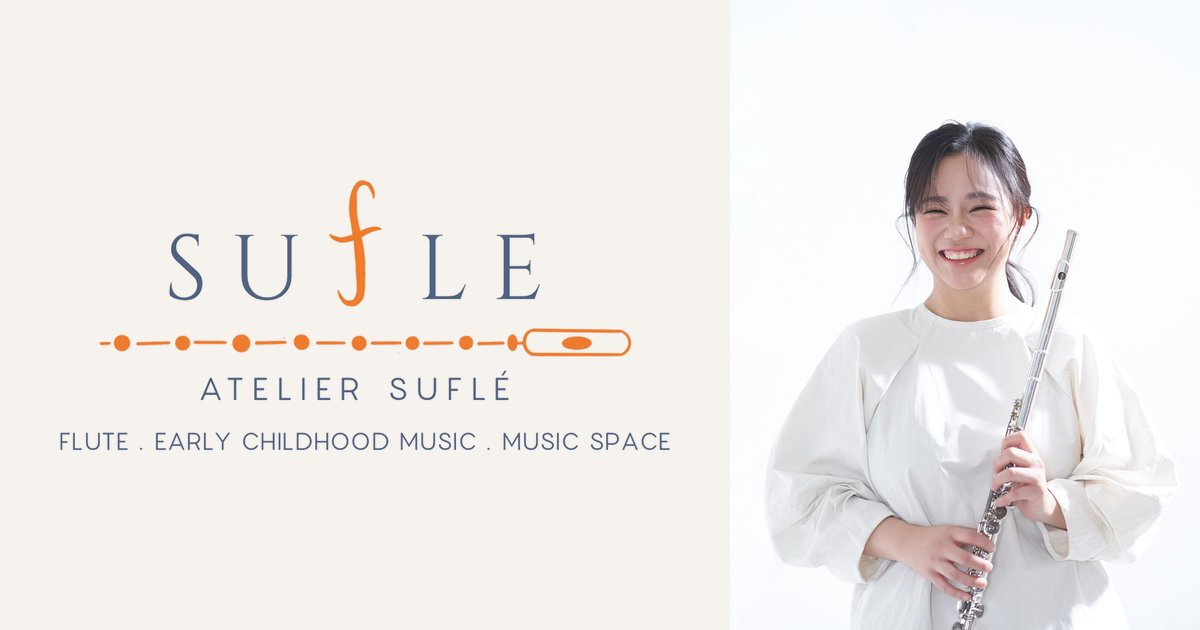
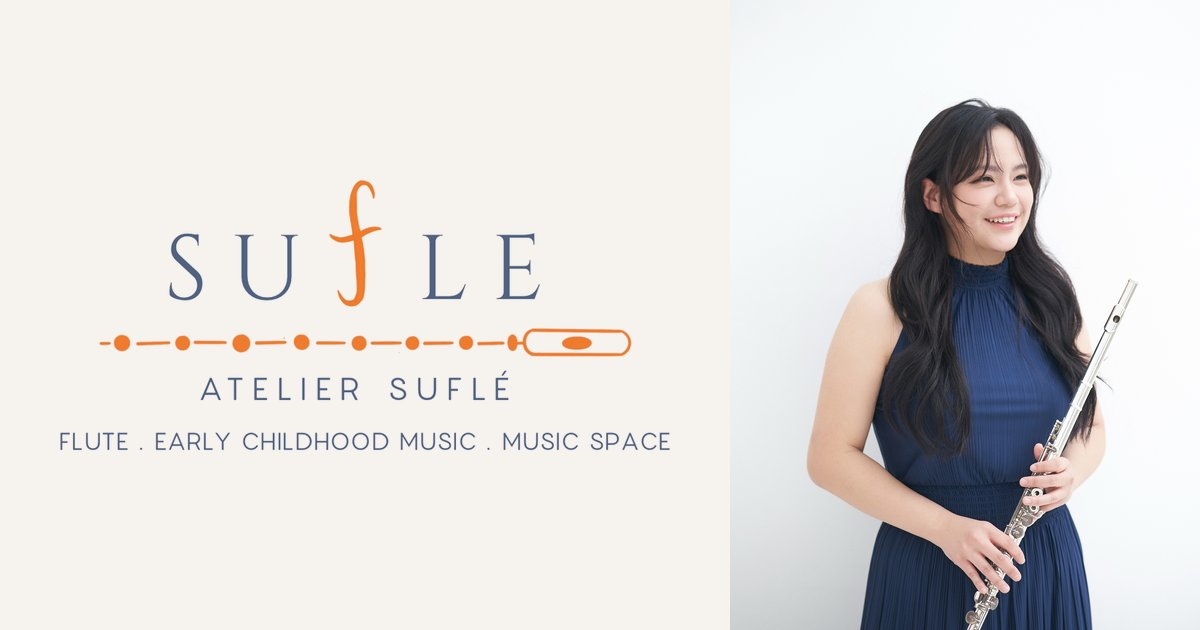
Use the new blue-dress portrait in the hero
The white portrait moves to About, the graduation photo joins the concert
photo in the Music gallery; new social preview image; the staff card
overlaps less of the hero photo.

Claude-Session: https://claude.ai/code/session_01DsEhUf33tBodbzAHMFEgwg

Changed region(s): [[0.5858, 0.1508, 0.9867, 1.0]]

diff --git a/atelier-sufle/de/index.html b/atelier-sufle/de/index.html
@@ -26,7 +26,7 @@
 <meta name="twitter:card" content="summary_large_image">
 <link rel="preload" href="../assets/fonts/cormorant-garamond-normal-latin.woff2" as="font" type="font/woff2" crossorigin>
 <link rel="preload" href="../assets/fonts/jost-normal-latin.woff2" as="font" type="font/woff2" crossorigin>
-<link rel="preload" href="../assets/photos/portrait-800.webp" as="image" type="image/webp" imagesrcset="../assets/photos/portrait-480.webp 480w, ../assets/photos/portrait-800.webp 800w" imagesizes="(max-width: 900px) 80vw, 460px">
+<link rel="preload" href="../assets/photos/hero-800.webp" as="image" type="image/webp" imagesrcset="../assets/photos/hero-480.webp 480w, ../assets/photos/hero-800.webp 800w" imagesizes="(max-width: 900px) 80vw, 460px">
 <link rel="stylesheet" href="../assets/fonts/fonts.css">
 <link rel="stylesheet" href="../assets/css/site.css">
 <script type="application/ld+json">{"@context": "https://schema.org", "@graph": [{"@type": "MusicSchool", "@id": "https://reissfuji006.github.io/atelier-sufle/#school", "name": "Atelier Suflé", "description": "Einzelunterricht Querflöte für Kinder, Jugendliche und Erwachsene in Bonn, Köln und online bei Flötistin Suhsuan Wang (Master of Music, HfMT Köln). Auf Deutsch, Englisch oder Chinesisch.", "url": "https://reissfuji006.github.io/atelier-sufle/de/", "image": "https://reissfuji006.github.io/atelier-sufle/assets/og-image.jpg", "logo": "https://reissfuji006.github.io/atelier-sufle/assets/brand/logo-mark.png", "email": "hsuan41213@gmail.com", "areaServed": [{"@type": "City", "name": "Bonn"}, {"@type": "City", "name": "Köln"}], "availableLanguage": ["en", "de", "zh"], "sameAs": ["https://www.instagram.com/ateliersufle.music/"], "founder": {"@id": "https://reissfuji006.github.io/atelier-sufle/#suhsuan"}}, {"@type": "Person", "@id": "https://reissfuji006.github.io/atelier-sufle/#suhsuan", "name": "Suhsuan Wang", "jobTitle": "Flautist and flute teacher", "knowsLanguage": ["en", "de", "zh"], "alumniOf": {"@type": "CollegeOrUniversity", "name": "Hochschule für Musik und Tanz Köln"}, "sameAs": ["https://www.instagram.com/ateliersufle.music/"]}, {"@type": "FAQPage", "inLanguage": "de", "mainEntity": [{"@type": "Question", "name": "Für wen ist der Unterricht?", "acceptedAnswer": {"@type": "Answer", "text": "Für Kinder, Jugendliche und Erwachsene, von Anfängern bis zu Fortgeschrittenen. Kleine Kinder können mit einer Flöte mit gebogenem Kopfstück beginnen, die leichter zu halten ist."}}, {"@type": "Question", "name": "Wo findet der Unterricht statt?", "acceptedAnswer": {"@type": "Answer", "text": "Vor Ort in Bonn und Köln oder online per Video."}}, {"@type": "Question", "name": "In welchen Sprachen wird unterrichtet?", "acceptedAnswer": {"@type": "Answer", "text": "Auf Deutsch, Englisch oder Chinesisch (Mandarin)."}}, {"@type": "Question", "name": "Wie lange dauert eine Stunde?", "acceptedAnswer": {"@type": "Answer", "text": "30, 45 oder 60 Minuten, je nach Alter, Niveau und Zielen."}}, {"@type": "Question", "name": "Was kostet der Unterricht?", "acceptedAnswer": {"@type": "Answer", "text": "Die Preise gibt es auf Anfrage. Schreiben Sie einfach über das Formular unten."}}, {"@type": "Question", "name": "Welche Ausbildung hat Suhsuan?", "acceptedAnswer": {"@type": "Answer", "text": "Sie hat einen Master of Music in Flöte, Kammermusik und Barockmusik sowie einen Bachelor of Music in Flöte, beide von der Hochschule für Musik und Tanz Köln."}}, {"@type": "Question", "name": "Wie melde ich mich für eine erste Stunde an?", "acceptedAnswer": {"@type": "Answer", "text": "Über das Formular unten oder per E-Mail an hsuan41213@gmail.com. Suhsuan antwortet per E-Mail, um eine erste Stunde zu vereinbaren."}}]}]}</script>
@@ -69,8 +69,8 @@
       </div>
       <div class="hero-visual">
         <picture>
-          <source type="image/webp" srcset="../assets/photos/portrait-480.webp 480w, ../assets/photos/portrait-800.webp 800w" sizes="(max-width: 900px) 80vw, 460px">
-          <img class="portrait" src="../assets/photos/portrait-800.jpg" srcset="../assets/photos/portrait-480.jpg 480w, ../assets/photos/portrait-800.jpg 800w" sizes="(max-width: 900px) 80vw, 460px" alt="Suhsuan Wang lächelt und hält ihre Flöte" width="800" height="1200" fetchpriority="high">
+          <source type="image/webp" srcset="../assets/photos/hero-480.webp 480w, ../assets/photos/hero-800.webp 800w" sizes="(max-width: 900px) 80vw, 460px">
+          <img class="portrait" src="../assets/photos/hero-800.jpg" srcset="../assets/photos/hero-480.jpg 480w, ../assets/photos/hero-800.jpg 800w" sizes="(max-width: 900px) 80vw, 460px" alt="Suhsuan Wang im blauen Kleid mit ihrer Flöte" width="800" height="1200" fetchpriority="high">
         </picture>
         <div class="staff-card" id="staff-card">
           <div class="staff-head">
@@ -98,10 +98,9 @@
     <div class="wrap about-grid">
       <figure class="about-photo">
         <picture>
-          <source type="image/webp" srcset="../assets/photos/graduation-600.webp 600w, ../assets/photos/graduation-1000.webp 1000w" sizes="(max-width: 900px) 92vw, 520px">
-          <img src="../assets/photos/graduation-600.jpg" srcset="../assets/photos/graduation-600.jpg 600w, ../assets/photos/graduation-1000.jpg 1000w" sizes="(max-width: 900px) 92vw, 520px" alt="Suhsuan Wang mit Blumen vor der Hochschule für Musik und Tanz Köln" width="1000" height="754" loading="lazy" decoding="async">
+          <source type="image/webp" srcset="../assets/photos/portrait-480.webp 480w, ../assets/photos/portrait-800.webp 800w" sizes="(max-width: 900px) 80vw, 440px">
+          <img src="../assets/photos/portrait-800.jpg" srcset="../assets/photos/portrait-480.jpg 480w, ../assets/photos/portrait-800.jpg 800w" sizes="(max-width: 900px) 80vw, 440px" alt="Suhsuan Wang lacht und hält ihre Flöte" width="800" height="1200" loading="lazy" decoding="async">
         </picture>
-        <figcaption>Abschluss an der Hochschule für Musik und Tanz Köln</figcaption>
       </figure>
       <div class="about-text">
         <p class="label">Über mich</p>
@@ -162,7 +161,7 @@
 
   <section class="block music" id="music" aria-labelledby="music-title">
     <div class="wrap music-grid">
-      <div class="music-photos"><figure><picture><source type="image/webp" srcset="../assets/photos/concert-800.webp"><img src="../assets/photos/concert-800.jpg" alt="Suhsuan Wang spielt Flöte bei einem Kammermusikkonzert" width="800" height="534" loading="lazy" decoding="async"></picture><figcaption>Kammermusikkonzert</figcaption></figure></div>
+      <div class="music-photos"><figure><picture><source type="image/webp" srcset="../assets/photos/concert-800.webp"><img src="../assets/photos/concert-800.jpg" alt="Suhsuan Wang spielt Flöte bei einem Kammermusikkonzert" width="800" height="534" loading="lazy" decoding="async"></picture><figcaption>Kammermusikkonzert</figcaption></figure><figure><picture><source type="image/webp" srcset="../assets/photos/graduation-600.webp"><img src="../assets/photos/graduation-600.jpg" alt="Suhsuan Wang mit Blumen vor der Hochschule für Musik und Tanz Köln" width="600" height="452" loading="lazy" decoding="async"></picture><figcaption>Abschluss an der Hochschule für Musik und Tanz Köln</figcaption></figure></div>
       <div class="music-text">
         <p class="label">Musik</p>
         <h2 id="music-title">Auf der Bühne</h2>

diff --git a/atelier-sufle/index.html b/atelier-sufle/index.html
@@ -26,7 +26,7 @@
 <meta name="twitter:card" content="summary_large_image">
 <link rel="preload" href="assets/fonts/cormorant-garamond-normal-latin.woff2" as="font" type="font/woff2" crossorigin>
 <link rel="preload" href="assets/fonts/jost-normal-latin.woff2" as="font" type="font/woff2" crossorigin>
-<link rel="preload" href="assets/photos/portrait-800.webp" as="image" type="image/webp" imagesrcset="assets/photos/portrait-480.webp 480w, assets/photos/portrait-800.webp 800w" imagesizes="(max-width: 900px) 80vw, 460px">
+<link rel="preload" href="assets/photos/hero-800.webp" as="image" type="image/webp" imagesrcset="assets/photos/hero-480.webp 480w, assets/photos/hero-800.webp 800w" imagesizes="(max-width: 900px) 80vw, 460px">
 <link rel="stylesheet" href="assets/fonts/fonts.css">
 <link rel="stylesheet" href="assets/css/site.css">
 <script type="application/ld+json">{"@context": "https://schema.org", "@graph": [{"@type": "MusicSchool", "@id": "https://reissfuji006.github.io/atelier-sufle/#school", "name": "Atelier Suflé", "description": "One-to-one flute lessons for children, teens and adults in Bonn, Köln and online with flautist Suhsuan Wang (Master of Music, HfMT Köln). In English, German or Chinese.", "url": "https://reissfuji006.github.io/atelier-sufle/", "image": "https://reissfuji006.github.io/atelier-sufle/assets/og-image.jpg", "logo": "https://reissfuji006.github.io/atelier-sufle/assets/brand/logo-mark.png", "email": "hsuan41213@gmail.com", "areaServed": [{"@type": "City", "name": "Bonn"}, {"@type": "City", "name": "Köln"}], "availableLanguage": ["en", "de", "zh"], "sameAs": ["https://www.instagram.com/ateliersufle.music/"], "founder": {"@id": "https://reissfuji006.github.io/atelier-sufle/#suhsuan"}}, {"@type": "Person", "@id": "https://reissfuji006.github.io/atelier-sufle/#suhsuan", "name": "Suhsuan Wang", "jobTitle": "Flautist and flute teacher", "knowsLanguage": ["en", "de", "zh"], "alumniOf": {"@type": "CollegeOrUniversity", "name": "Hochschule für Musik und Tanz Köln"}, "sameAs": ["https://www.instagram.com/ateliersufle.music/"]}, {"@type": "FAQPage", "inLanguage": "en", "mainEntity": [{"@type": "Question", "name": "Who are the lessons for?", "acceptedAnswer": {"@type": "Answer", "text": "Children, teenagers and adults, from complete beginners to advanced flautists. Young children can start on a flute with a curved headjoint, which is easier to hold."}}, {"@type": "Question", "name": "Where do lessons take place?", "acceptedAnswer": {"@type": "Answer", "text": "In person in Bonn and Köln, or online by video."}}, {"@type": "Question", "name": "In which languages are lessons given?", "acceptedAnswer": {"@type": "Answer", "text": "English, German or Chinese (Mandarin)."}}, {"@type": "Question", "name": "How long is a lesson?", "acceptedAnswer": {"@type": "Answer", "text": "30, 45 or 60 minutes, depending on age, level and goals."}}, {"@type": "Question", "name": "How much do lessons cost?", "acceptedAnswer": {"@type": "Answer", "text": "Prices are shared on request. Send a short message through the form below."}}, {"@type": "Question", "name": "What is Suhsuan’s background?", "acceptedAnswer": {"@type": "Answer", "text": "She holds a Master of Music in flute performance, chamber music and baroque music, and a Bachelor of Music in flute performance, both from the Hochschule für Musik und Tanz Köln."}}, {"@type": "Question", "name": "How do I book a first lesson?", "acceptedAnswer": {"@type": "Answer", "text": "Use the form below or write to hsuan41213@gmail.com. Suhsuan replies by email to arrange a first lesson."}}]}]}</script>
@@ -69,8 +69,8 @@
       </div>
       <div class="hero-visual">
         <picture>
-          <source type="image/webp" srcset="assets/photos/portrait-480.webp 480w, assets/photos/portrait-800.webp 800w" sizes="(max-width: 900px) 80vw, 460px">
-          <img class="portrait" src="assets/photos/portrait-800.jpg" srcset="assets/photos/portrait-480.jpg 480w, assets/photos/portrait-800.jpg 800w" sizes="(max-width: 900px) 80vw, 460px" alt="Suhsuan Wang smiling, holding her flute" width="800" height="1200" fetchpriority="high">
+          <source type="image/webp" srcset="assets/photos/hero-480.webp 480w, assets/photos/hero-800.webp 800w" sizes="(max-width: 900px) 80vw, 460px">
+          <img class="portrait" src="assets/photos/hero-800.jpg" srcset="assets/photos/hero-480.jpg 480w, assets/photos/hero-800.jpg 800w" sizes="(max-width: 900px) 80vw, 460px" alt="Suhsuan Wang in a blue dress, holding her flute" width="800" height="1200" fetchpriority="high">
         </picture>
         <div class="staff-card" id="staff-card">
           <div class="staff-head">
@@ -98,10 +98,9 @@
     <div class="wrap about-grid">
       <figure class="about-photo">
         <picture>
-          <source type="image/webp" srcset="assets/photos/graduation-600.webp 600w, assets/photos/graduation-1000.webp 1000w" sizes="(max-width: 900px) 92vw, 520px">
-          <img src="assets/photos/graduation-600.jpg" srcset="assets/photos/graduation-600.jpg 600w, assets/photos/graduation-1000.jpg 1000w" sizes="(max-width: 900px) 92vw, 520px" alt="Suhsuan Wang holding flowers in front of the Hochschule für Musik und Tanz Köln" width="1000" height="754" loading="lazy" decoding="async">
+          <source type="image/webp" srcset="assets/photos/portrait-480.webp 480w, assets/photos/portrait-800.webp 800w" sizes="(max-width: 900px) 80vw, 440px">
+          <img src="assets/photos/portrait-800.jpg" srcset="assets/photos/portrait-480.jpg 480w, assets/photos/portrait-800.jpg 800w" sizes="(max-width: 900px) 80vw, 440px" alt="Suhsuan Wang laughing, holding her flute" width="800" height="1200" loading="lazy" decoding="async">
         </picture>
-        <figcaption>Graduation, Hochschule für Musik und Tanz Köln</figcaption>
       </figure>
       <div class="about-text">
         <p class="label">About</p>
@@ -162,7 +161,7 @@
 
   <section class="block music" id="music" aria-labelledby="music-title">
     <div class="wrap music-grid">
-      <div class="music-photos"><figure><picture><source type="image/webp" srcset="assets/photos/concert-800.webp"><img src="assets/photos/concert-800.jpg" alt="Suhsuan Wang playing the flute in a chamber music concert" width="800" height="534" loading="lazy" decoding="async"></picture><figcaption>Chamber music concert</figcaption></figure></div>
+      <div class="music-photos"><figure><picture><source type="image/webp" srcset="assets/photos/concert-800.webp"><img src="assets/photos/concert-800.jpg" alt="Suhsuan Wang playing the flute in a chamber music concert" width="800" height="534" loading="lazy" decoding="async"></picture><figcaption>Chamber music concert</figcaption></figure><figure><picture><source type="image/webp" srcset="assets/photos/graduation-600.webp"><img src="assets/photos/graduation-600.jpg" alt="Suhsuan Wang holding flowers in front of the Hochschule für Musik und Tanz Köln" width="600" height="452" loading="lazy" decoding="async"></picture><figcaption>Graduation, Hochschule für Musik und Tanz Köln</figcaption></figure></div>
       <div class="music-text">
         <p class="label">Music</p>
         <h2 id="music-title">On stage</h2>

diff --git a/atelier-sufle/zh-hans/index.html b/atelier-sufle/zh-hans/index.html
@@ -26,7 +26,7 @@
 <meta name="twitter:card" content="summary_large_image">
 <link rel="preload" href="../assets/fonts/cormorant-garamond-normal-latin.woff2" as="font" type="font/woff2" crossorigin>
 <link rel="preload" href="../assets/fonts/jost-normal-latin.woff2" as="font" type="font/woff2" crossorigin>
-<link rel="preload" href="../assets/photos/portrait-800.webp" as="image" type="image/webp" imagesrcset="../assets/photos/portrait-480.webp 480w, ../assets/photos/portrait-800.webp 800w" imagesizes="(max-width: 900px) 80vw, 460px">
+<link rel="preload" href="../assets/photos/hero-800.webp" as="image" type="image/webp" imagesrcset="../assets/photos/hero-480.webp 480w, ../assets/photos/hero-800.webp 800w" imagesizes="(max-width: 900px) 80vw, 460px">
 <link rel="stylesheet" href="../assets/fonts/fonts.css">
 <link rel="stylesheet" href="../assets/css/site.css">
 <script type="application/ld+json">{"@context": "https://schema.org", "@graph": [{"@type": "MusicSchool", "@id": "https://reissfuji006.github.io/atelier-sufle/#school", "name": "Atelier Suflé", "description": "长笛演奏家 Suhsuan Wang（科隆音乐舞蹈学院音乐硕士）在波恩、科隆及在线，为儿童、青少年与成人提供一对一长笛课程，可用中文、英文或德文授课。", "url": "https://reissfuji006.github.io/atelier-sufle/zh-hans/", "image": "https://reissfuji006.github.io/atelier-sufle/assets/og-image.jpg", "logo": "https://reissfuji006.github.io/atelier-sufle/assets/brand/logo-mark.png", "email": "hsuan41213@gmail.com", "areaServed": [{"@type": "City", "name": "Bonn"}, {"@type": "City", "name": "Köln"}], "availableLanguage": ["en", "de", "zh"], "sameAs": ["https://www.instagram.com/ateliersufle.music/"], "founder": {"@id": "https://reissfuji006.github.io/atelier-sufle/#suhsuan"}}, {"@type": "Person", "@id": "https://reissfuji006.github.io/atelier-sufle/#suhsuan", "name": "Suhsuan Wang", "jobTitle": "Flautist and flute teacher", "knowsLanguage": ["en", "de", "zh"], "alumniOf": {"@type": "CollegeOrUniversity", "name": "Hochschule für Musik und Tanz Köln"}, "sameAs": ["https://www.instagram.com/ateliersufle.music/"]}, {"@type": "FAQPage", "inLanguage": "zh-Hans", "mainEntity": [{"@type": "Question", "name": "课程适合哪些人？", "acceptedAnswer": {"@type": "Answer", "text": "儿童、青少年与成人，从零基础到进阶都适合。年纪小的孩子可以使用较好握持的弯头长笛开始学习。"}}, {"@type": "Question", "name": "在哪里上课？", "acceptedAnswer": {"@type": "Answer", "text": "在波恩与科隆面授，或透过视频在线上课。"}}, {"@type": "Question", "name": "使用哪些语言授课？", "acceptedAnswer": {"@type": "Answer", "text": "中文（普通话）、英文或德文。"}}, {"@type": "Question", "name": "一堂课多长？", "acceptedAnswer": {"@type": "Answer", "text": "30、45 或 60 分钟，依年龄、程度与目标而定。"}}, {"@type": "Question", "name": "学费是多少？", "acceptedAnswer": {"@type": "Answer", "text": "费用请洽询，欢迎透过下方表单留言。"}}, {"@type": "Question", "name": "Suhsuan 的学经历？", "acceptedAnswer": {"@type": "Answer", "text": "她拥有德国科隆音乐舞蹈学院的长笛演奏、室内乐与巴洛克音乐硕士学位，以及长笛演奏学士学位。"}}, {"@type": "Question", "name": "如何预约第一堂课？", "acceptedAnswer": {"@type": "Answer", "text": "请使用下方表单，或写信至 hsuan41213@gmail.com。Suhsuan 会以电子邮箱回复，安排第一堂课。"}}]}]}</script>
@@ -69,8 +69,8 @@
       </div>
       <div class="hero-visual">
         <picture>
-          <source type="image/webp" srcset="../assets/photos/portrait-480.webp 480w, ../assets/photos/portrait-800.webp 800w" sizes="(max-width: 900px) 80vw, 460px">
-          <img class="portrait" src="../assets/photos/portrait-800.jpg" srcset="../assets/photos/portrait-480.jpg 480w, ../assets/photos/portrait-800.jpg 800w" sizes="(max-width: 900px) 80vw, 460px" alt="Suhsuan Wang 手持长笛微笑" width="800" height="1200" fetchpriority="high">
+          <source type="image/webp" srcset="../assets/photos/hero-480.webp 480w, ../assets/photos/hero-800.webp 800w" sizes="(max-width: 900px) 80vw, 460px">
+          <img class="portrait" src="../assets/photos/hero-800.jpg" srcset="../assets/photos/hero-480.jpg 480w, ../assets/photos/hero-800.jpg 800w" sizes="(max-width: 900px) 80vw, 460px" alt="身穿蓝色洋装、手持长笛的 Suhsuan Wang" width="800" height="1200" fetchpriority="high">
         </picture>
         <div class="staff-card" id="staff-card">
           <div class="staff-head">
@@ -98,10 +98,9 @@
     <div class="wrap about-grid">
       <figure class="about-photo">
         <picture>
-          <source type="image/webp" srcset="../assets/photos/graduation-600.webp 600w, ../assets/photos/graduation-1000.webp 1000w" sizes="(max-width: 900px) 92vw, 520px">
-          <img src="../assets/photos/graduation-600.jpg" srcset="../assets/photos/graduation-600.jpg 600w, ../assets/photos/graduation-1000.jpg 1000w" sizes="(max-width: 900px) 92vw, 520px" alt="Suhsuan Wang 手捧花束站在科隆音乐舞蹈学院前" width="1000" height="754" loading="lazy" decoding="async">
+          <source type="image/webp" srcset="../assets/photos/portrait-480.webp 480w, ../assets/photos/portrait-800.webp 800w" sizes="(max-width: 900px) 80vw, 440px">
+          <img src="../assets/photos/portrait-800.jpg" srcset="../assets/photos/portrait-480.jpg 480w, ../assets/photos/portrait-800.jpg 800w" sizes="(max-width: 900px) 80vw, 440px" alt="Suhsuan Wang 手持长笛开怀大笑" width="800" height="1200" loading="lazy" decoding="async">
         </picture>
-        <figcaption>于科隆音乐舞蹈学院毕业</figcaption>
       </figure>
       <div class="about-text">
         <p class="label">关于</p>
@@ -162,7 +161,7 @@
 
   <section class="block music" id="music" aria-labelledby="music-title">
     <div class="wrap music-grid">
-      <div class="music-photos"><figure><picture><source type="image/webp" srcset="../assets/photos/concert-800.webp"><img src="../assets/photos/concert-800.jpg" alt="Suhsuan Wang 在室内乐音乐会中演奏长笛" width="800" height="534" loading="lazy" decoding="async"></picture><figcaption>室内乐音乐会</figcaption></figure></div>
+      <div class="music-photos"><figure><picture><source type="image/webp" srcset="../assets/photos/concert-800.webp"><img src="../assets/photos/concert-800.jpg" alt="Suhsuan Wang 在室内乐音乐会中演奏长笛" width="800" height="534" loading="lazy" decoding="async"></picture><figcaption>室内乐音乐会</figcaption></figure><figure><picture><source type="image/webp" srcset="../assets/photos/graduation-600.webp"><img src="../assets/photos/graduation-600.jpg" alt="Suhsuan Wang 手捧花束站在科隆音乐舞蹈学院前" width="600" height="452" loading="lazy" decoding="async"></picture><figcaption>于科隆音乐舞蹈学院毕业</figcaption></figure></div>
       <div class="music-text">
         <p class="label">音乐</p>
         <h2 id="music-title">舞台上</h2>

diff --git a/atelier-sufle/zh-hant/index.html b/atelier-sufle/zh-hant/index.html
@@ -26,7 +26,7 @@
 <meta name="twitter:card" content="summary_large_image">
 <link rel="preload" href="../assets/fonts/cormorant-garamond-normal-latin.woff2" as="font" type="font/woff2" crossorigin>
 <link rel="preload" href="../assets/fonts/jost-normal-latin.woff2" as="font" type="font/woff2" crossorigin>
-<link rel="preload" href="../assets/photos/portrait-800.webp" as="image" type="image/webp" imagesrcset="../assets/photos/portrait-480.webp 480w, ../assets/photos/portrait-800.webp 800w" imagesizes="(max-width: 900px) 80vw, 460px">
+<link rel="preload" href="../assets/photos/hero-800.webp" as="image" type="image/webp" imagesrcset="../assets/photos/hero-480.webp 480w, ../assets/photos/hero-800.webp 800w" imagesizes="(max-width: 900px) 80vw, 460px">
 <link rel="stylesheet" href="../assets/fonts/fonts.css">
 <link rel="stylesheet" href="../assets/css/site.css">
 <script type="application/ld+json">{"@context": "https://schema.org", "@graph": [{"@type": "MusicSchool", "@id": "https://reissfuji006.github.io/atelier-sufle/#school", "name": "Atelier Suflé", "description": "長笛演奏家 Suhsuan Wang（科隆音樂舞蹈學院音樂碩士）在波昂、科隆及線上，為兒童、青少年與成人提供一對一長笛課程，可用中文、英文或德文授課。", "url": "https://reissfuji006.github.io/atelier-sufle/zh-hant/", "image": "https://reissfuji006.github.io/atelier-sufle/assets/og-image.jpg", "logo": "https://reissfuji006.github.io/atelier-sufle/assets/brand/logo-mark.png", "email": "hsuan41213@gmail.com", "areaServed": [{"@type": "City", "name": "Bonn"}, {"@type": "City", "name": "Köln"}], "availableLanguage": ["en", "de", "zh"], "sameAs": ["https://www.instagram.com/ateliersufle.music/"], "founder": {"@id": "https://reissfuji006.github.io/atelier-sufle/#suhsuan"}}, {"@type": "Person", "@id": "https://reissfuji006.github.io/atelier-sufle/#suhsuan", "name": "Suhsuan Wang", "jobTitle": "Flautist and flute teacher", "knowsLanguage": ["en", "de", "zh"], "alumniOf": {"@type": "CollegeOrUniversity", "name": "Hochschule für Musik und Tanz Köln"}, "sameAs": ["https://www.instagram.com/ateliersufle.music/"]}, {"@type": "FAQPage", "inLanguage": "zh-Hant", "mainEntity": [{"@type": "Question", "name": "課程適合哪些人？", "acceptedAnswer": {"@type": "Answer", "text": "兒童、青少年與成人，從零基礎到進階都適合。年紀小的孩子可以使用較好握持的彎頭長笛開始學習。"}}, {"@type": "Question", "name": "在哪裡上課？", "acceptedAnswer": {"@type": "Answer", "text": "在波昂與科隆面授，或透過視訊線上上課。"}}, {"@type": "Question", "name": "使用哪些語言授課？", "acceptedAnswer": {"@type": "Answer", "text": "中文（普通話）、英文或德文。"}}, {"@type": "Question", "name": "一堂課多長？", "acceptedAnswer": {"@type": "Answer", "text": "30、45 或 60 分鐘，依年齡、程度與目標而定。"}}, {"@type": "Question", "name": "學費是多少？", "acceptedAnswer": {"@type": "Answer", "text": "費用請洽詢，歡迎透過下方表單留言。"}}, {"@type": "Question", "name": "Suhsuan 的學經歷？", "acceptedAnswer": {"@type": "Answer", "text": "她擁有德國科隆音樂舞蹈學院的長笛演奏、室內樂與巴洛克音樂碩士學位，以及長笛演奏學士學位。"}}, {"@type": "Question", "name": "如何預約第一堂課？", "acceptedAnswer": {"@type": "Answer", "text": "請使用下方表單，或寫信至 hsuan41213@gmail.com。Suhsuan 會以電子郵件回覆，安排第一堂課。"}}]}]}</script>
@@ -69,8 +69,8 @@
       </div>
       <div class="hero-visual">
         <picture>
-          <source type="image/webp" srcset="../assets/photos/portrait-480.webp 480w, ../assets/photos/portrait-800.webp 800w" sizes="(max-width: 900px) 80vw, 460px">
-          <img class="portrait" src="../assets/photos/portrait-800.jpg" srcset="../assets/photos/portrait-480.jpg 480w, ../assets/photos/portrait-800.jpg 800w" sizes="(max-width: 900px) 80vw, 460px" alt="Suhsuan Wang 手持長笛微笑" width="800" height="1200" fetchpriority="high">
+          <source type="image/webp" srcset="../assets/photos/hero-480.webp 480w, ../assets/photos/hero-800.webp 800w" sizes="(max-width: 900px) 80vw, 460px">
+          <img class="portrait" src="../assets/photos/hero-800.jpg" srcset="../assets/photos/hero-480.jpg 480w, ../assets/photos/hero-800.jpg 800w" sizes="(max-width: 900px) 80vw, 460px" alt="身穿藍色洋裝、手持長笛的 Suhsuan Wang" width="800" height="1200" fetchpriority="high">
         </picture>
         <div class="staff-card" id="staff-card">
           <div class="staff-head">
@@ -98,10 +98,9 @@
     <div class="wrap about-grid">
       <figure class="about-photo">
         <picture>
-          <source type="image/webp" srcset="../assets/photos/graduation-600.webp 600w, ../assets/photos/graduation-1000.webp 1000w" sizes="(max-width: 900px) 92vw, 520px">
-          <img src="../assets/photos/graduation-600.jpg" srcset="../assets/photos/graduation-600.jpg 600w, ../assets/photos/graduation-1000.jpg 1000w" sizes="(max-width: 900px) 92vw, 520px" alt="Suhsuan Wang 手捧花束站在科隆音樂舞蹈學院前" width="1000" height="754" loading="lazy" decoding="async">
+          <source type="image/webp" srcset="../assets/photos/portrait-480.webp 480w, ../assets/photos/portrait-800.webp 800w" sizes="(max-width: 900px) 80vw, 440px">
+          <img src="../assets/photos/portrait-800.jpg" srcset="../assets/photos/portrait-480.jpg 480w, ../assets/photos/portrait-800.jpg 800w" sizes="(max-width: 900px) 80vw, 440px" alt="Suhsuan Wang 手持長笛開懷大笑" width="800" height="1200" loading="lazy" decoding="async">
         </picture>
-        <figcaption>於科隆音樂舞蹈學院畢業</figcaption>
       </figure>
       <div class="about-text">
         <p class="label">關於</p>
@@ -162,7 +161,7 @@
 
   <section class="block music" id="music" aria-labelledby="music-title">
     <div class="wrap music-grid">
-      <div class="music-photos"><figure><picture><source type="image/webp" srcset="../assets/photos/concert-800.webp"><img src="../assets/photos/concert-800.jpg" alt="Suhsuan Wang 在室內樂音樂會中演奏長笛" width="800" height="534" loading="lazy" decoding="async"></picture><figcaption>室內樂音樂會</figcaption></figure></div>
+      <div class="music-photos"><figure><picture><source type="image/webp" srcset="../assets/photos/concert-800.webp"><img src="../assets/photos/concert-800.jpg" alt="Suhsuan Wang 在室內樂音樂會中演奏長笛" width="800" height="534" loading="lazy" decoding="async"></picture><figcaption>室內樂音樂會</figcaption></figure><figure><picture><source type="image/webp" srcset="../assets/photos/graduation-600.webp"><img src="../assets/photos/graduation-600.jpg" alt="Suhsuan Wang 手捧花束站在科隆音樂舞蹈學院前" width="600" height="452" loading="lazy" decoding="async"></picture><figcaption>於科隆音樂舞蹈學院畢業</figcaption></figure></div>
       <div class="music-text">
         <p class="label">音樂</p>
         <h2 id="music-title">舞台上</h2>

diff --git a/atelier-sufle/assets/css/site.css b/atelier-sufle/assets/css/site.css
@@ -106,9 +106,9 @@ h1 .display { font-size: clamp(3rem, 7vw, 5.4rem); font-weight: 500; }
 .facts li { min-width: 0; }
 .facts b { font-family: var(--display); font-size: clamp(1.05rem, 1.35vw, 1.25rem); font-weight: 600; line-height: 1.2; white-space: nowrap; }
 .facts span { font-size: .86rem; color: var(--muted); line-height: 1.35; }
-.hero-visual { position: relative; padding-bottom: 96px; }
-.portrait { width: 100%; max-width: 460px; margin-left: auto; aspect-ratio: 4 / 5; object-fit: cover; object-position: 50% 70%; border-radius: 999px 999px var(--radius) var(--radius); background: #FFFFFF; }
-.staff-card { position: absolute; left: -12%; bottom: 0; width: min(440px, 100%); background: var(--surface); border: 1px solid var(--line); border-radius: var(--radius); padding: 18px 20px 16px; box-shadow: 0 24px 48px -32px rgba(37, 50, 74, .55); }
+.hero-visual { position: relative; padding-bottom: 168px; }
+.portrait { width: 100%; max-width: 460px; margin-left: auto; aspect-ratio: 4 / 5; object-fit: cover; object-position: 50% 58%; border-radius: 999px 999px var(--radius) var(--radius); background: #FFFFFF; }
+.staff-card { position: absolute; left: -14%; bottom: 0; width: min(440px, 100%); background: var(--surface); border: 1px solid var(--line); border-radius: var(--radius); padding: 18px 20px 16px; box-shadow: 0 24px 48px -32px rgba(37, 50, 74, .55); }
 .staff-head { display: flex; align-items: center; justify-content: space-between; gap: 12px; flex-wrap: wrap; }
 .staff-title { font-family: var(--display); font-size: 1.45rem; font-weight: 600; line-height: 1.15; }
 .play { display: inline-flex; align-items: center; gap: 8px; min-height: 40px; padding: 6px 16px; border-radius: 999px; border: 1px solid var(--line-strong); background: transparent; color: var(--ink); font: inherit; font-size: .95rem; font-weight: 500; cursor: pointer; }
@@ -149,7 +149,7 @@ figcaption { font-size: .86rem; color: var(--muted); margin-top: 10px; }
 .about { background: var(--surface); border-block: 1px solid var(--line); }
 .about-grid { display: grid; grid-template-columns: minmax(0, .95fr) minmax(0, 1.05fr); gap: clamp(36px, 6vw, 88px); align-items: center; }
 .about-photo { margin: 0; }
-.about-photo img { border-radius: var(--radius); }
+.about-photo img { width: 100%; max-width: 440px; aspect-ratio: 4 / 5; object-fit: cover; object-position: 50% 62%; border-radius: var(--radius); background: #FFFFFF; }
 .about-text { display: grid; gap: 20px; justify-items: start; }
 .diplomas { display: grid; grid-template-columns: 1fr 1fr; gap: 18px; width: 100%; margin-top: 6px; }
 .diploma { border-top: 2px solid var(--ink); padding-top: 14px; display: grid; gap: 4px; }
@@ -157,7 +157,7 @@ figcaption { font-size: .86rem; color: var(--muted); margin-top: 10px; }
 .diploma p:last-child { color: var(--muted); font-size: .95rem; }
 .school { font-weight: 500; }
 .quote { font-family: var(--display); font-size: clamp(1.4rem, 2.2vw, 1.8rem); line-height: 1.3; margin: 0; padding-left: 18px; border-left: 2px solid var(--orange); }
-@media (max-width: 900px) { .about-grid { grid-template-columns: 1fr; } }
+@media (max-width: 900px) { .about-grid { grid-template-columns: 1fr; } .about-photo img { margin-inline: auto; max-width: 380px; } }
 @media (max-width: 480px) { .diplomas { grid-template-columns: 1fr; } }
 
 /* Lessons */
@@ -200,7 +200,8 @@ figcaption { font-size: .86rem; color: var(--muted); margin-top: 10px; }
 .music-grid { display: grid; grid-template-columns: minmax(0, 1.25fr) minmax(0, .75fr); gap: clamp(32px, 6vw, 80px); align-items: center; }
 .music-photos { display: grid; grid-template-columns: repeat(2, minmax(0, 1fr)); gap: 14px; }
 .music-photos figure { margin: 0; }
-.music-photos figure:first-child { grid-column: 1 / -1; }
+.music-photos figure:first-child:nth-last-child(odd) { grid-column: 1 / -1; }
+.music-photos img { aspect-ratio: 3 / 2; object-fit: cover; }
 .music-photos img { border-radius: var(--radius); width: 100%; }
 .music figcaption { color: var(--night-muted); }
 .music-text { display: grid; gap: 18px; justify-items: start; }
@@ -210,6 +211,7 @@ figcaption { font-size: .86rem; color: var(--muted); margin-top: 10px; }
 .recordings { display: grid; gap: 12px; width: 100%; }
 .recordings audio { width: 100%; }
 @media (max-width: 900px) { .music-grid { grid-template-columns: 1fr; } }
+@media (max-width: 480px) { .music-photos { grid-template-columns: 1fr; } }
 
 /* Reviews (rendered only when real reviews exist) */
 .testimonials-list { display: grid; grid-template-columns: repeat(auto-fit, minmax(260px, 1fr)); gap: 28px; margin-bottom: 20px; }

diff --git a/atelier-sufle/src/template.html b/atelier-sufle/src/template.html
@@ -22,7 +22,7 @@
 <meta name="twitter:card" content="summary_large_image">
 <link rel="preload" href="{{root}}assets/fonts/cormorant-garamond-normal-latin.woff2" as="font" type="font/woff2" crossorigin>
 <link rel="preload" href="{{root}}assets/fonts/jost-normal-latin.woff2" as="font" type="font/woff2" crossorigin>
-<link rel="preload" href="{{root}}assets/photos/portrait-800.webp" as="image" type="image/webp" imagesrcset="{{root}}assets/photos/portrait-480.webp 480w, {{root}}assets/photos/portrait-800.webp 800w" imagesizes="(max-width: 900px) 80vw, 460px">
+<link rel="preload" href="{{root}}assets/photos/hero-800.webp" as="image" type="image/webp" imagesrcset="{{root}}assets/photos/hero-480.webp 480w, {{root}}assets/photos/hero-800.webp 800w" imagesizes="(max-width: 900px) 80vw, 460px">
 <link rel="stylesheet" href="{{root}}assets/fonts/fonts.css">
 <link rel="stylesheet" href="{{root}}assets/css/site.css">
 <script type="application/ld+json">{{jsonld}}</script>
@@ -65,8 +65,8 @@
       </div>
       <div class="hero-visual">
         <picture>
-          <source type="image/webp" srcset="{{root}}assets/photos/portrait-480.webp 480w, {{root}}assets/photos/portrait-800.webp 800w" sizes="(max-width: 900px) 80vw, 460px">
-          <img class="portrait" src="{{root}}assets/photos/portrait-800.jpg" srcset="{{root}}assets/photos/portrait-480.jpg 480w, {{root}}assets/photos/portrait-800.jpg 800w" sizes="(max-width: 900px) 80vw, 460px" alt="{{hero.alt}}" width="800" height="1200" fetchpriority="high">
+          <source type="image/webp" srcset="{{root}}assets/photos/hero-480.webp 480w, {{root}}assets/photos/hero-800.webp 800w" sizes="(max-width: 900px) 80vw, 460px">
+          <img class="portrait" src="{{root}}assets/photos/hero-800.jpg" srcset="{{root}}assets/photos/hero-480.jpg 480w, {{root}}assets/photos/hero-800.jpg 800w" sizes="(max-width: 900px) 80vw, 460px" alt="{{hero.alt}}" width="800" height="1200" fetchpriority="high">
         </picture>
         <div class="staff-card" id="staff-card">
           <div class="staff-head">
@@ -94,10 +94,9 @@
     <div class="wrap about-grid">
       <figure class="about-photo">
         <picture>
-          <source type="image/webp" srcset="{{root}}assets/photos/graduation-600.webp 600w, {{root}}assets/photos/graduation-1000.webp 1000w" sizes="(max-width: 900px) 92vw, 520px">
-          <img src="{{root}}assets/photos/graduation-600.jpg" srcset="{{root}}assets/photos/graduation-600.jpg 600w, {{root}}assets/photos/graduation-1000.jpg 1000w" sizes="(max-width: 900px) 92vw, 520px" alt="{{alt.grad}}" width="1000" height="754" loading="lazy" decoding="async">
+          <source type="image/webp" srcset="{{root}}assets/photos/portrait-480.webp 480w, {{root}}assets/photos/portrait-800.webp 800w" sizes="(max-width: 900px) 80vw, 440px">
+          <img src="{{root}}assets/photos/portrait-800.jpg" srcset="{{root}}assets/photos/portrait-480.jpg 480w, {{root}}assets/photos/portrait-800.jpg 800w" sizes="(max-width: 900px) 80vw, 440px" alt="{{alt.about}}" width="800" height="1200" loading="lazy" decoding="async">
         </picture>
-        <figcaption>{{cap.grad}}</figcaption>
       </figure>
       <div class="about-text">
         <p class="label">{{about.label}}</p>

diff --git a/atelier-sufle/src/content.py b/atelier-sufle/src/content.py
@@ -34,7 +34,8 @@ OPTIONAL = {
 }
 
 # Photos for the Music section: (file stem in assets/photos, width, height, alt key, caption key).
-MUSIC_PHOTOS = [('concert-800', 800, 534, 'alt.concert', 'cap.concert')]
+MUSIC_PHOTOS = [('concert-800', 800, 534, 'alt.concert', 'cap.concert'),
+                ('graduation-600', 600, 452, 'alt.grad', 'cap.grad')]
 
 # Mainland vocabulary applied after the Traditional -> Simplified conversion.
 SIMPLIFIED_WORDS = [('波昂', '波恩'), ('线上', '在线'), ('联络', '联系'), ('隐私权政策', '隐私政策'),
@@ -54,7 +55,8 @@ T = {
         'hero.title': 'Find your sound <em>on the flute.</em>',
         'hero.lead': 'One-to-one lessons for children, teens and adults, from the very first note to advanced repertoire, with Suhsuan Wang, flautist trained at the Hochschule für Musik und Tanz Köln.',
         'hero.cta2': 'Meet Suhsuan',
-        'hero.alt': 'Suhsuan Wang smiling, holding her flute',
+        'hero.alt': 'Suhsuan Wang in a blue dress, holding her flute',
+        'alt.about': 'Suhsuan Wang laughing, holding her flute',
         'facts.label': 'At a glance',
         'f1.b': 'Master of Music', 'f1.s': 'HfMT Köln',
         'f2.b': 'All ages', 'f2.s': 'Beginner to advanced',
@@ -142,7 +144,8 @@ T = {
         'hero.title': 'Finden Sie Ihren Klang <em>auf der Flöte.</em>',
         'hero.lead': 'Einzelunterricht für Kinder, Jugendliche und Erwachsene, vom allerersten Ton bis zum anspruchsvollen Repertoire, bei Suhsuan Wang, Flötistin mit Abschluss an der Hochschule für Musik und Tanz Köln.',
         'hero.cta2': 'Suhsuan kennenlernen',
-        'hero.alt': 'Suhsuan Wang lächelt und hält ihre Flöte',
+        'hero.alt': 'Suhsuan Wang im blauen Kleid mit ihrer Flöte',
+        'alt.about': 'Suhsuan Wang lacht und hält ihre Flöte',
         'facts.label': 'Auf einen Blick',
         'f1.b': 'Master of Music', 'f1.s': 'HfMT Köln',
         'f2.b': 'Jedes Alter', 'f2.s': 'Anfänger bis Fortgeschrittene',
@@ -230,7 +233,8 @@ T = {
         'hero.title': '在長笛上，<br><em>找到你的聲音。</em>',
         'hero.lead': '為兒童、青少年與成人提供一對一長笛課程，從第一個音到進階曲目。由畢業於科隆音樂舞蹈學院的長笛演奏家 Suhsuan Wang 親自授課。',
         'hero.cta2': '認識 Suhsuan',
-        'hero.alt': 'Suhsuan Wang 手持長笛微笑',
+        'hero.alt': '身穿藍色洋裝、手持長笛的 Suhsuan Wang',
+        'alt.about': 'Suhsuan Wang 手持長笛開懷大笑',
         'facts.label': '重點資訊',
         'f1.b': '音樂碩士', 'f1.s': '科隆音樂舞蹈學院',
         'f2.b': '不限年齡', 'f2.s': '初學到進階',
